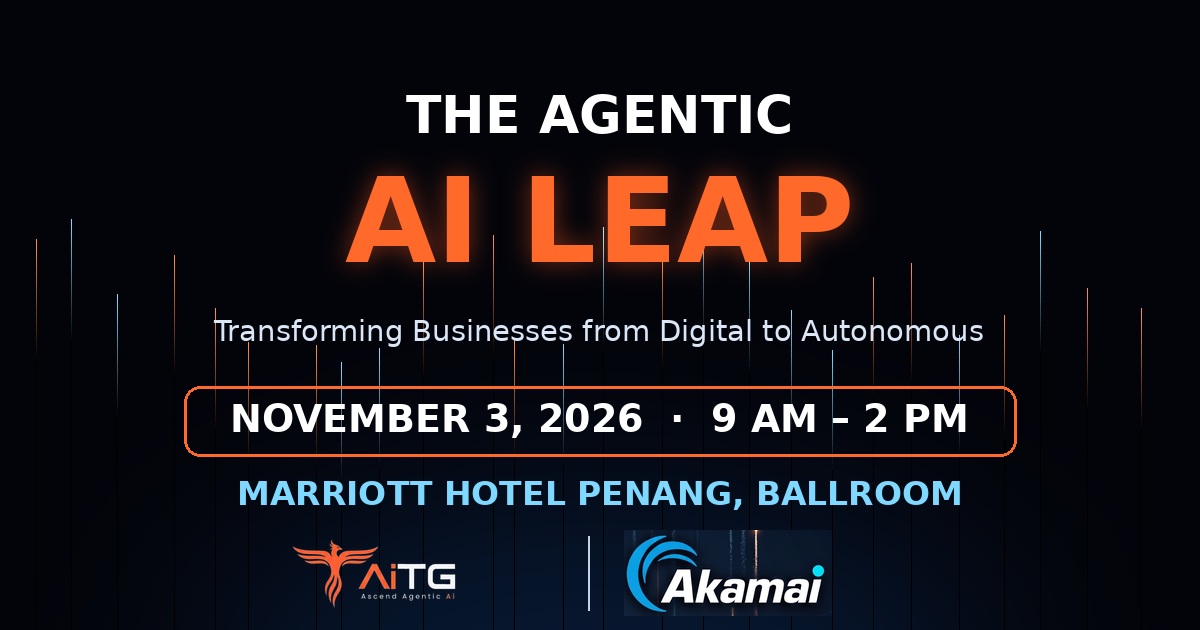
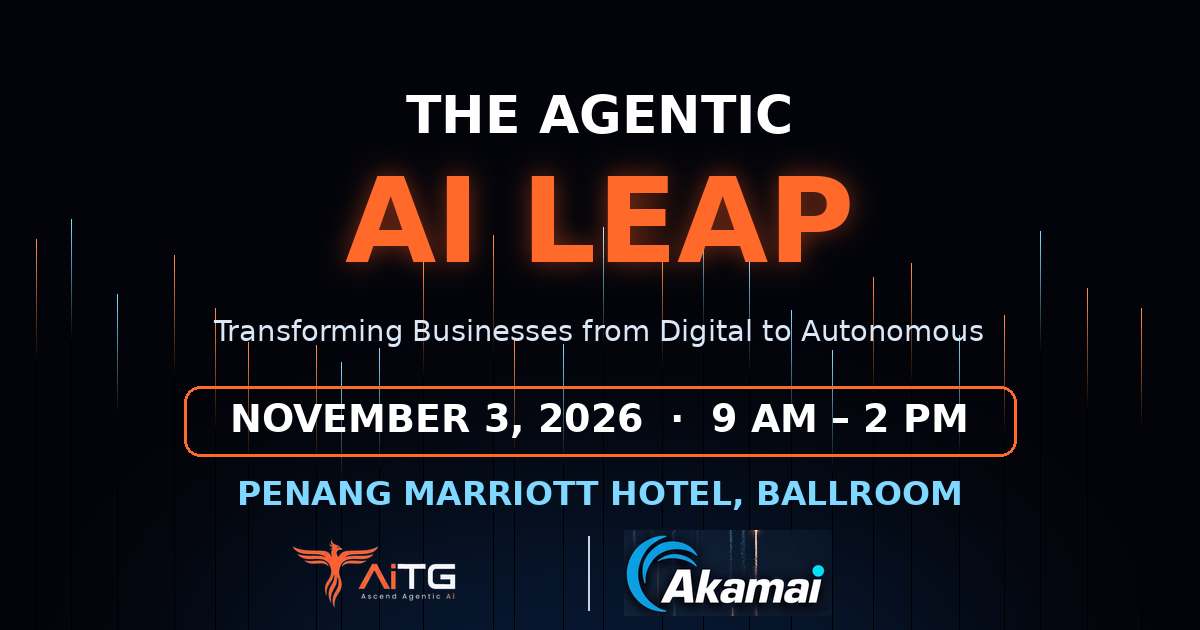
Fix venue: Penang Marriott Hotel, Gurney Drive + official Maps link, geo coords

Changed region(s): [[0.185, 0.754, 0.6167, 0.8143]]

diff --git a/index.html b/index.html
@@ -4,9 +4,9 @@
 <meta charset="utf-8">
 <meta name="viewport" content="width=device-width, initial-scale=1">
 <title>The Agentic AI Leap — AITG × Akamai | 3 Nov 2026, Penang</title>
-<meta name="description" content="AITG × Akamai present THE AGENTIC AI LEAP — Transforming Businesses from Digital to Autonomous. November 3, 2026, 9 AM – 2 PM, Marriott Hotel Penang, Ballroom. Register now.">
+<meta name="description" content="AITG × Akamai present THE AGENTIC AI LEAP — Transforming Businesses from Digital to Autonomous. November 3, 2026, 9 AM – 2 PM, Penang Marriott Hotel, Ballroom. Register now.">
 <meta property="og:title" content="The Agentic AI Leap — AITG × Akamai">
-<meta property="og:description" content="Transforming Businesses from Digital to Autonomous. 3 Nov 2026 · Marriott Hotel Penang. Seats are limited — register today.">
+<meta property="og:description" content="Transforming Businesses from Digital to Autonomous. 3 Nov 2026 · Penang Marriott Hotel. Seats are limited — register today.">
 <meta property="og:image" content="/og-image.png">
 <meta property="og:type" content="website">
 <link rel="icon" type="image/png" href="/favicon.png">
@@ -26,8 +26,9 @@
   "eventAttendanceMode": "https://schema.org/OfflineEventAttendanceMode",
   "location": {
     "@type": "Place",
-    "name": "Marriott Hotel Penang, Ballroom",
-    "address": { "@type": "PostalAddress", "streetAddress": "235A Jalan Pantai Jerjak", "addressLocality": "Bayan Lepas", "addressRegion": "Penang", "addressCountry": "MY" }
+    "name": "Penang Marriott Hotel, Ballroom",
+    "address": { "@type": "PostalAddress", "streetAddress": "55 Persiaran Gurney, Pulau Tikus", "addressLocality": "George Town", "addressRegion": "Penang", "postalCode": "10250", "addressCountry": "MY" },
+    "geo": { "@type": "GeoCoordinates", "latitude": 5.4312388, "longitude": 100.3172378 }
   },
   "image": ["/og-image.png"],
   "organizer": [
@@ -73,7 +74,7 @@
       </div>
       <div class="fact">
         <svg viewBox="0 0 24 24" fill="none" stroke="#ff8a4d" stroke-width="2"><path d="M12 21s-7-5.5-7-11a7 7 0 0 1 14 0c0 5.5-7 11-7 11z"/><circle cx="12" cy="10" r="2.6"/></svg>
-        <div><b>Marriott Hotel Penang</b><span>Ballroom</span></div>
+        <div><b>Penang Marriott Hotel</b><span>Ballroom</span></div>
       </div>
     </div>
 
@@ -195,14 +196,14 @@
     <h2 class="sec-title">Getting There</h2>
     <div class="venue-card">
       <div class="venue-info">
-        <h3>Marriott Hotel Penang — Ballroom</h3>
-        <p>235A Jalan Pantai Jerjak, 11950 Bayan Lepas, Penang</p>
+        <h3>Penang Marriott Hotel — Ballroom</h3>
+        <p>55 Persiaran Gurney, 10250 George Town, Pulau Tikus, Penang</p>
         <ul>
           <li>Free on-site parking</li>
-          <li>15 min from Penang International Airport</li>
-          <li>Registration desk opens 8:30 AM — look for the AITG &times; Akamai signage</li>
+          <li>About 25 min from Penang International Airport</li>
+          <li>Registration desk opens 8:30 AM — look for the AITG &times; Akamai signage · Gurney Drive, George Town</li>
         </ul>
-        <a class="btn-ghost" href="https://maps.google.com/?q=Marriott+Hotel+Penang" target="_blank" rel="noopener">Open in Google Maps</a>
+        <a class="btn-ghost" href="https://maps.app.goo.gl/vSTfGxhbwy4erK2K8" target="_blank" rel="noopener">Open in Google Maps</a>
       </div>
     </div>
   </section>

diff --git a/terms.html b/terms.html
@@ -29,7 +29,7 @@
     <p class="sec-sub" style="text-align:left;">Last updated: 2 September 2026</p>
 
     <div class="legal" style="margin-top:36px;">
-      <p>These terms govern the use of this event website and registration for <em>The Agentic AI Leap</em> ("the Event"), organised by AITG in partnership with Akamai Technologies, on 3 November 2026 at the Marriott Hotel Penang, Ballroom.</p>
+      <p>These terms govern the use of this event website and registration for <em>The Agentic AI Leap</em> ("the Event"), organised by AITG in partnership with Akamai Technologies, on 3 November 2026 at the Penang Marriott Hotel, Ballroom.</p>
 
       <h2>1. Registration</h2>
       <p>Registration is subject to confirmation and seat availability. Submitting the form does not guarantee admission until you receive a confirmation from the organisers. The organisers reserve the right to refuse or cancel registrations at their discretion.</p>

diff --git a/js/app.js b/js/app.js
@@ -178,8 +178,8 @@
           var params = new URLSearchParams({
             action: "TEMPLATE", text: "The Agentic AI Leap — AITG × Akamai",
             dates: "20261103T010000Z/20261103T060000Z",
-            details: "Transforming Businesses from Digital to Autonomous. Marriott Hotel Penang, Ballroom.",
-            location: "Marriott Hotel Penang, Ballroom"
+            details: "Transforming Businesses from Digital to Autonomous. Penang Marriott Hotel, Ballroom.",
+            location: "Penang Marriott Hotel, Ballroom"
           });
           gcal.href = "https://calendar.google.com/calendar/render?" + params.toString();
         }

diff --git a/README.md b/README.md
@@ -1,6 +1,6 @@
 # Teragrid-AI/agentic-ai-leap
 
-Landing page + lead capture for **The Agentic AI Leap** — AITG × Akamai launch event, 3 Nov 2026, Marriott Hotel Penang.
+Landing page + lead capture for **The Agentic AI Leap** — AITG × Akamai launch event, 3 Nov 2026, Penang Marriott Hotel.
 
 - Static HTML/CSS/JS served by nginx (Pattern B, no SSR).
 - Registration form POSTs to the Teragrid CRM public lead API: `https://crm.aitg.com.my/api/lead` (`companyCode: teragrid-demo`) — leads land as CRM Contacts with `source=EVENT`, tag `agentic-ai-leap-2026`.
